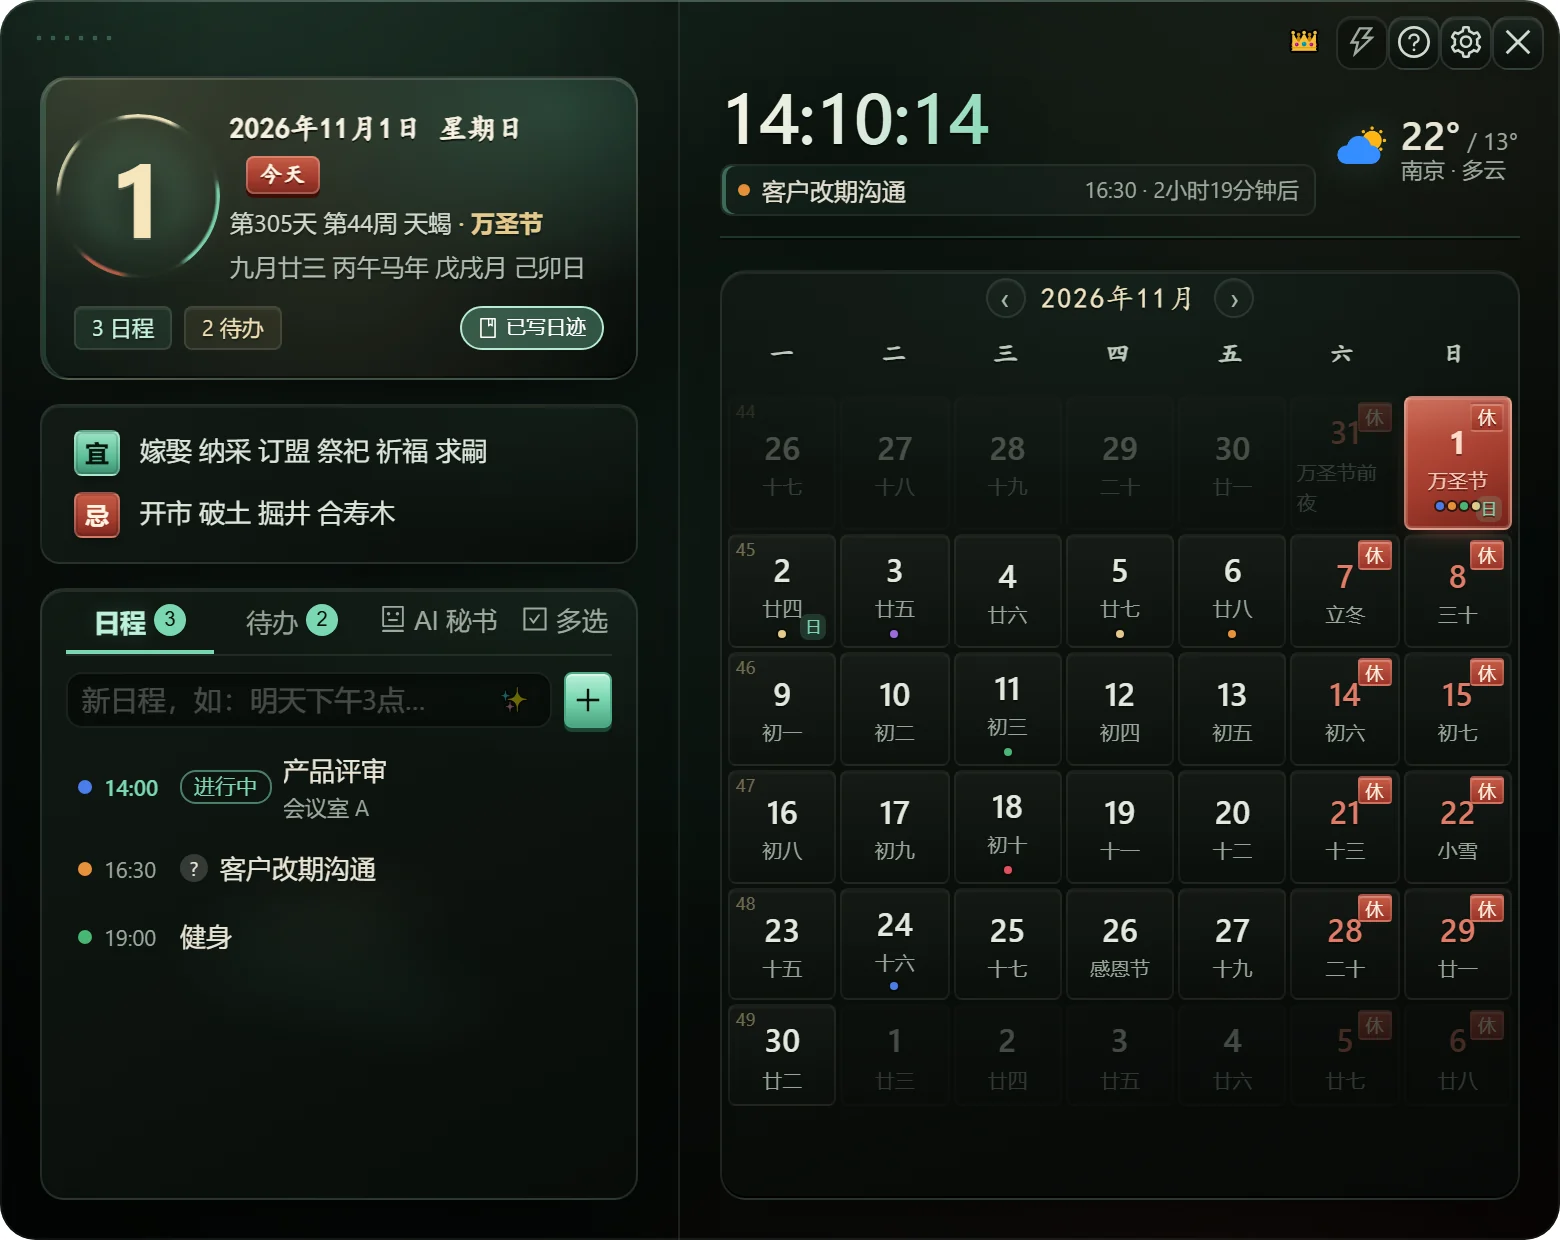
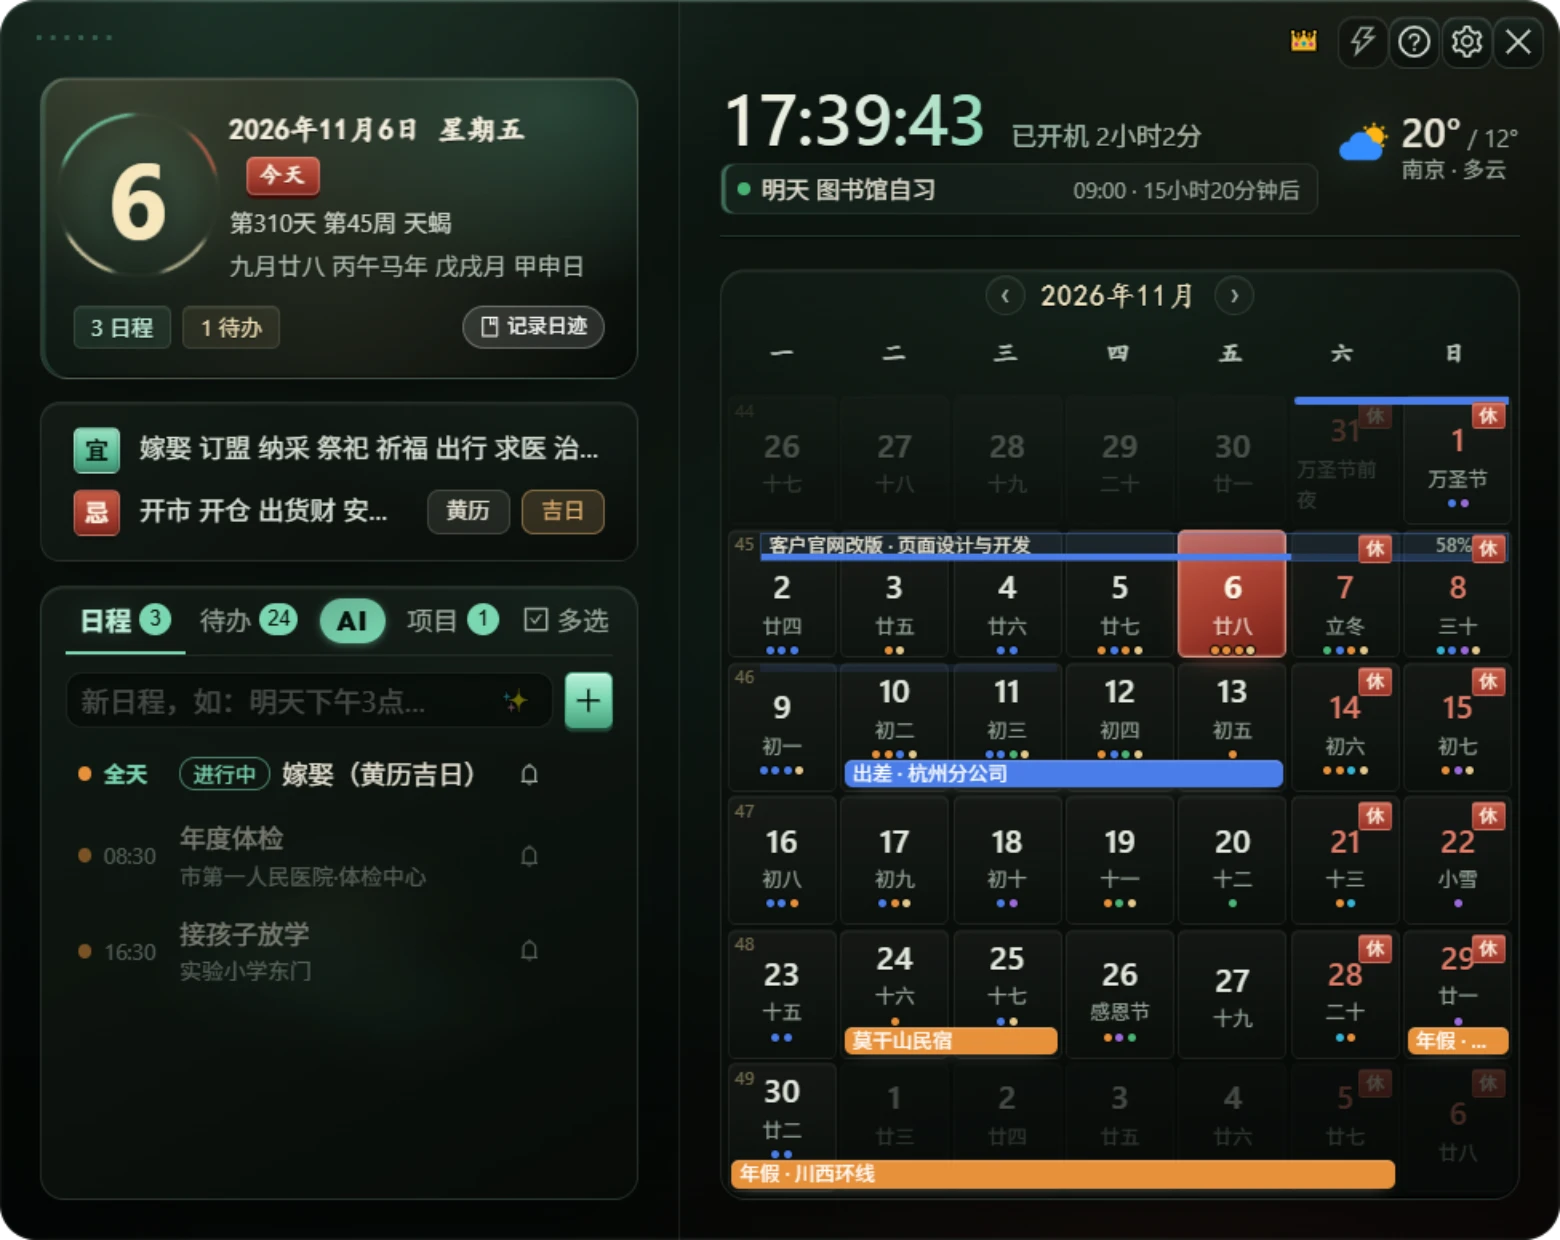
feat: 更新 v2.6.6 功能与截图

diff --git a/index.html b/index.html
@@ -275,7 +275,7 @@ footer{border-top:1px solid var(--line);padding:28px 0 40px}
   <div class="wrap nav-in">
     <a class="brand" href="#top" aria-label="UCalendar 首页">
       <svg viewBox="0 0 64 64" aria-hidden="true"><rect x="8" y="8" width="48" height="48" rx="14" fill="#211f1a"/><rect x="17" y="19" width="30" height="27" rx="5" fill="none" stroke="#f4efe5" stroke-width="2.5"/><path d="M17 28h30" stroke="#f4efe5" stroke-width="2.5"/><path d="M25 15v7M39 15v7" stroke="#c4472d" stroke-width="3.5" stroke-linecap="round"/><circle cx="32" cy="37" r="3.5" fill="#c4472d"/></svg>
-      <b>UCalendar</b><span class="ver">2.6.5</span>
+      <b>UCalendar</b><span class="ver">2.6.6</span>
     </a>
     <nav aria-label="页面导航">
       <a href="#why">为什么改</a>
@@ -371,7 +371,7 @@ footer{border-top:1px solid var(--line);padding:28px 0 40px}
     </div>
     <figure class="panel-wrap">
       <img src="assets/panel.webp" width="1560" height="1240" alt="UCalendar 主面板真实界面：左侧今日日期、黄历和日程，右侧月历与天气" loading="lazy">
-      <figcaption class="panel-cap"><span><b>同一份数据。</b>主面板改完，桌面上的月历、日程和倒计时也跟着变。</span><span>真实界面 · 2.6.5</span></figcaption>
+      <figcaption class="panel-cap"><span><b>同一份数据。</b>主面板改完，桌面上的月历、日程和倒计时也跟着变。</span><span>真实界面 · 2.6.6</span></figcaption>
     </figure>
   </section>
 
@@ -379,32 +379,40 @@ footer{border-top:1px solid var(--line);padding:28px 0 40px}
     <div class="sec-head">
       <div>
         <div class="kicker">03 / 这次更新</div>
-        <h2 id="update-title">2.6.5：项目、黄历<br>和更清楚的 Pro 边界。</h2>
+        <h2 id="update-title">2.6.6：日历三视图、组件吸附<br>和更顺手的 Pro 外观。</h2>
       </div>
-      <p class="lead">项目能按阶段推进，黄历能查到 1900–2100；哪些功能属于 Pro，界面、后端和发布说明都写清楚。</p>
+      <p class="lead">同一张桌面日历可切完整月历 / 周视图 / 焦点视图；组件拖动实时吸附，Pro 外观一次应用到全部。AI 会话导出也改成另存为，不再直接落盘。</p>
     </div>
     <div class="updates">
       <article class="update">
-        <span class="tag">PROJECTS</span>
-        <h3>项目阶段</h3>
-        <p>项目、阶段、日程 / 待办归属；月历项目条、项目页时间轴、阶段到期提醒；点项目条直达对应项目窗口。</p>
+        <span class="tag">CALENDAR VIEWS</span>
+        <h3>日历三视图</h3>
+        <p>完整月历看全局，周视图看时间网格，焦点视图只看选中日；宽窗自动铺开，窄窗收成周议程，设置内一键切换。</p>
       </article>
       <article class="update">
-        <span class="tag">ALMANAC</span>
-        <h3>黄历 / 吉日</h3>
-        <p>独立黄历与吉日窗，1900–2100 宜忌和释义全部离线；吉日可直接加日程，或写进项目阶段。</p>
+        <span class="tag">WIDGET STYLE</span>
+        <h3>Pro 组件外观</h3>
+        <p>磨砂玻璃、字体、字号、文字颜色都能调；「应用到全部」统一所有组件，「恢复当前 / 恢复全部」只重置尺寸与外观。</p>
       </article>
       <article class="update">
-        <span class="tag">BOUNDARY</span>
-        <h3>Pro 边界</h3>
-        <p>项目管理与便签管理为 Pro；Lite 保留桌面便签 / 快速记录。到期后后端拒绝管理操作，已有项目关联不会被清除。</p>
+        <span class="tag">DRAG SNAP</span>
+        <h3>拖动吸附</h3>
+        <p>拖动时实时吸附屏幕边缘、组件边缘和中线，松手保持；按住 Shift 临时关闭，增加脱手余量，不在阈值附近来回跳。</p>
       </article>
       <article class="update">
-        <span class="tag">INSTALL</span>
-        <h3>WebView2 与签名</h3>
-        <p>首次启动缺 WebView2 会自动下载安装；Pro 与 Lite 都已代码签名，失败时给出手动下载地址。</p>
+        <span class="tag">EXPORT / INSTALL</span>
+        <h3>导出与安装确认</h3>
+        <p>AI 会话导出改为系统另存为，可取消；缺 WebView2 时先询问用户，安装界面可见，不再静默安装。</p>
       </article>
     </div>
+    <figure class="panel-wrap">
+      <img src="assets/calendar-views.webp" width="1500" height="650" alt="UCalendar 桌面日历三种显示模式：完整月历、周视图、焦点视图" loading="lazy">
+      <figcaption class="panel-cap"><span><b>三种看法。</b>完整月历看全局，周视图看时间，焦点视图只看今天。</span><span>真实界面 · 2.6.6</span></figcaption>
+    </figure>
+    <figure class="panel-wrap" style="max-width:640px;margin-left:auto;margin-right:auto">
+      <img src="assets/widget-settings.webp" width="650" height="700" alt="UCalendar 组件设置：显示模式、拖动吸附、Pro 卡片外观、应用到全部、恢复当前 / 全部" loading="lazy">
+      <figcaption class="panel-cap"><span><b>设置里一次调好。</b>显示模式、吸附提示、Pro 外观与恢复全部。</span><span>真实界面 · 2.6.6</span></figcaption>
+    </figure>
     <p class="gallery-note">完整更新记录在 <a href="https://github.com/tobaba/UCalendar/releases" target="_blank" rel="noopener" style="color:var(--accent);border-bottom:1px solid rgba(196,71,45,.35)">GitHub Releases ↗</a>。</p>
   </section>
 
@@ -607,7 +615,7 @@ footer{border-top:1px solid var(--line);padding:28px 0 40px}
       </details>
       <details>
         <summary>Lite 有日迹和时间册吗？</summary>
-        <p>Lite v2.6.5 没有日迹、时间册导出和今日节奏，也没有项目管理、便签管理页；这些在 Pro 版里。Lite 仍保留日程、待办、月历、黄历吉日、6 个桌面组件、6 套主题和 AI 秘书。</p>
+        <p>Lite v2.6.6 没有日迹、时间册导出和今日节奏，也没有项目管理、便签管理页；这些在 Pro 版里。Lite 仍保留日程、待办、月历、黄历吉日、6 个桌面组件、6 套主题和 AI 秘书。</p>
       </details>
       <details>
         <summary>数据会上传吗？</summary>
